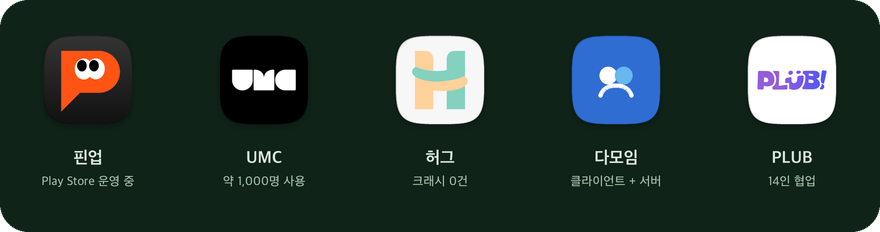
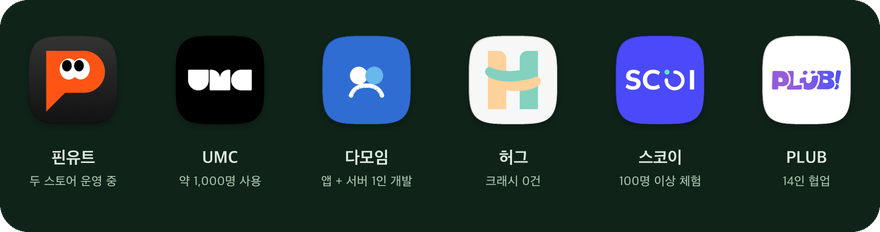
docs: 프로필 README 최신화
- 포트폴리오(gyeongseok.vercel.app) 링크와 배지 추가, 프로젝트마다 자세히 링크
- 핀업을 핀유트로 이름 변경, 스코이와 스위치보드 추가
- 앱 패널을 6칸으로 다시 생성 (스코이 아이콘 포함)
- 포스크탑 이용자와 릴스 조회수, 연락처를 Gmail로 갱신

diff --git a/assets/_src/gen_apps.py b/assets/_src/gen_apps.py
@@ -9,10 +9,11 @@ FONT = "/System/Library/Fonts/AppleSDGothicNeo.ttc"
 SS = 2
 
 APPS = [
-    ("pinup",  "핀업",   "Play Store 운영 중"),
+    ("pinup",  "핀유트", "두 스토어 운영 중"),
     ("umc",    "UMC",    "약 1,000명 사용"),
+    ("damoim", "다모임", "앱 + 서버 1인 개발"),
     ("hugg",   "허그",   "크래시 0건"),
-    ("damoim", "다모임", "클라이언트 + 서버"),
+    ("scoi",   "스코이", "100명 이상 체험"),
     ("plub",   "PLUB",   "14인 협업"),
 ]
 

diff --git a/README.md b/README.md
@@ -5,32 +5,40 @@
 앱을 만들고, 출시하고, 운영합니다. Kotlin 하나로 Android와 iOS, 서버까지 다룹니다.
 가끔은 바탕화면에 포켓몬을 풀어놓기도 합니다.
 
+<p align="center">
+  <a href="https://gyeongseok.vercel.app"><img src="https://img.shields.io/badge/Portfolio-gyeongseok.vercel.app-00693C?style=for-the-badge&logo=vercel&logoColor=white" alt="포트폴리오 gyeongseok.vercel.app"></a>
+</p>
+
+만든 것과 공부한 것을 모두 [포트폴리오](https://gyeongseok.vercel.app)에 정리해 두었습니다.
+
 ## 만든 앱
 
 <p align="center">
   <picture>
     <source media="(prefers-color-scheme: dark)" srcset="assets/apps-dark.png">
-    <img src="assets/apps-light.png" width="880" alt="핀업, UMC, 허그, 다모임, PLUB">
+    <img src="assets/apps-light.png" width="880" alt="핀유트, UMC, 다모임, 허그, 스코이, PLUB">
   </picture>
 </p>
 
 <p align="center">
   <picture>
     <source media="(max-width: 560px)" srcset="assets/screens-narrow.png">
-    <img src="assets/screens-wide.png" width="872" alt="핀업 지도, 다모임 홈, 허그 홈, 핀업 아티클 화면">
+    <img src="assets/screens-wide.png" width="872" alt="핀유트 지도, 다모임 홈, 허그 홈, 핀유트 아티클 화면">
   </picture>
 </p>
 
-- **핀업** — Compose Multiplatform 단일 코드베이스로 Android와 iOS에 동시 출시한 맛집 지도 SNS.
-  [저장소](https://github.com/TEAM-PIN-UP/MOBILE-PIN-UP), [Play Store](https://play.google.com/store/apps/details?id=com.pinup.placePinup)
+- **핀유트** (구 핀업) — Compose Multiplatform 단일 코드베이스로 Android와 iOS에 동시 출시한 지도 기반 장소 공유 SNS.
+  [저장소](https://github.com/TEAM-PIN-UP/MOBILE-PIN-UP), [Play Store](https://play.google.com/store/apps/details?id=com.pinup.placePinup), [자세히](https://gyeongseok.vercel.app/projects/pinyut)
 - **UMC 운영 앱** — 전국 28개 대학 약 1,000명이 쓰는 동아리 운영 앱. 중앙 안드로이드 파트장을 겸하고 있습니다.
-  [저장소](https://github.com/UMC-PRODUCT/umc-product-android)
-- **허그** — 난임 환자와 가족을 위한 케어 앱. 1년 가까이 운영하면서 크래시 0건.
-  [저장소](https://github.com/FOREGG-DEV/FOREGG_Android)
-- **다모임** — 앱부터 서버까지 혼자 만든 동아리 플랫폼.
-  [클라이언트](https://github.com/rudtjr1106/damoim), [서버](https://github.com/rudtjr1106/damoim-server)
+  [저장소](https://github.com/UMC-PRODUCT/umc-product-android), [Play Store](https://play.google.com/store/apps/details?id=com.umc.product), [자세히](https://gyeongseok.vercel.app/projects/umc)
+- **다모임** — 기획과 디자인부터 앱, 서버, 배포까지 혼자 만드는 동아리 운영 앱.
+  [클라이언트](https://github.com/rudtjr1106/damoim), [서버](https://github.com/rudtjr1106/damoim-server), [자세히](https://gyeongseok.vercel.app/projects/damoim)
+- **허그** — 난임 환자와 가족을 위한 케어 앱. 약 100명이 쓰는 동안 크래시 0건.
+  [저장소](https://github.com/FOREGG-DEV/FOREGG_Android), [자세히](https://gyeongseok.vercel.app/projects/hugg)
+- **스코이** — 스테이블코인 결제를 계좌이체처럼 쉽게 만드는 결제·송금 앱. 구조 설계와 충전 파트를 맡았습니다.
+  [저장소](https://github.com/UMCSCOI/Android), [서비스 소개](https://fulfilled-moment-057123-029c9b424.framer.app), [자세히](https://gyeongseok.vercel.app/projects/scoi)
 - **PLUB** — 14명이 함께한 첫 협업 프로젝트.
-  [저장소](https://github.com/PLUB2022/PLUB-Android)
+  [저장소](https://github.com/PLUB2022/PLUB-Android), [자세히](https://gyeongseok.vercel.app/projects/plub)
 
 ## 그 외
 
@@ -39,9 +47,12 @@
 </p>
 
 - **포스크탑** — 일하는 화면 한켠에서 포켓몬이 걸어다닙니다. 풀숲이 돋아나고, 야생 포켓몬이 나타나고, 잡아서 키웁니다. Windows와 macOS 둘 다.
-  [저장소](https://github.com/rudtjr1106/poketdesktop), [받기](https://github.com/rudtjr1106/poketdesktop/releases/latest)
+  지금 138명이 쓰고 있고, 소개 릴스는 조회수 약 2만 회를 넘겼습니다.
+  [저장소](https://github.com/rudtjr1106/poketdesktop), [받기](https://github.com/rudtjr1106/poketdesktop/releases/latest), [자세히](https://gyeongseok.vercel.app/projects/poketdesktop)
+- **스위치보드** — Android 원격 설정을 폼으로 고치면 PR부터 검증, 배포까지 대신 해 주는 macOS·Windows 앱. 안내 문구 초안은 기기 안의 LLM이 씁니다.
+  [저장소](https://github.com/rudtjr1106/switchboard), [자세히](https://gyeongseok.vercel.app/projects/switchboard)
 - **LanDrop** — 같은 공유기에 있는 내 기기끼리, 서버 없이 파일을 주고받습니다.
-  [저장소](https://github.com/rudtjr1106/LanDrop)
+  [저장소](https://github.com/rudtjr1106/LanDrop), [자세히](https://gyeongseok.vercel.app/projects/landrop)
 
 > 걷는 도트는 포스크탑이 쓰는 것과 같은 [SpriteCollab](https://github.com/PMDCollab/SpriteCollab) 스프라이트입니다(CC BY-NC 4.0). 포켓몬은 닌텐도 / Game Freak / 포켓몬 컴퍼니의 저작물이고, 포스크탑은 팬이 만든 비상업 프로젝트입니다. [전체 출처](https://github.com/rudtjr1106/poketdesktop/blob/main/CREDITS.md)
 
@@ -79,4 +90,4 @@
 
 ## 연락
 
-[rudtjr1206@naver.com](mailto:rudtjr1206@naver.com), [기술 블로그](https://velog.io/@rudtjr1106)
+[포트폴리오](https://gyeongseok.vercel.app), [rudtjr1206@gmail.com](mailto:rudtjr1206@gmail.com), [기술 블로그](https://velog.io/@rudtjr1106)

diff --git a/assets/_src/README.md b/assets/_src/README.md
@@ -15,6 +15,8 @@ python3 gen_langs.py     # 언어 비중             (네트워크 필요)
 
 ## 알아둘 것
 
+- `icon-scoi.png` 는 스코이 저장소(UMCSCOI/Android)의 런처 아이콘 `ic_launcher-playstore.png` 로
+  `gen_images.py` 의 `icon()` 을 한 번 돌려 만든 것입니다. 원본이 이력서 폴더에 없어 `gen_images.py` 는 이 파일을 다시 만들지 않습니다.
 - `icon-*.png` 는 README가 직접 참조하지 않습니다. `gen_apps.py` 가 런처 패널로 합칠 때
   쓰는 중간 산출물이라 지우면 안 됩니다.
 - `gen_images.py` 와 `gen_walkers.py` 는 이 저장소 밖의 원본을 읽습니다. 경로는 각
